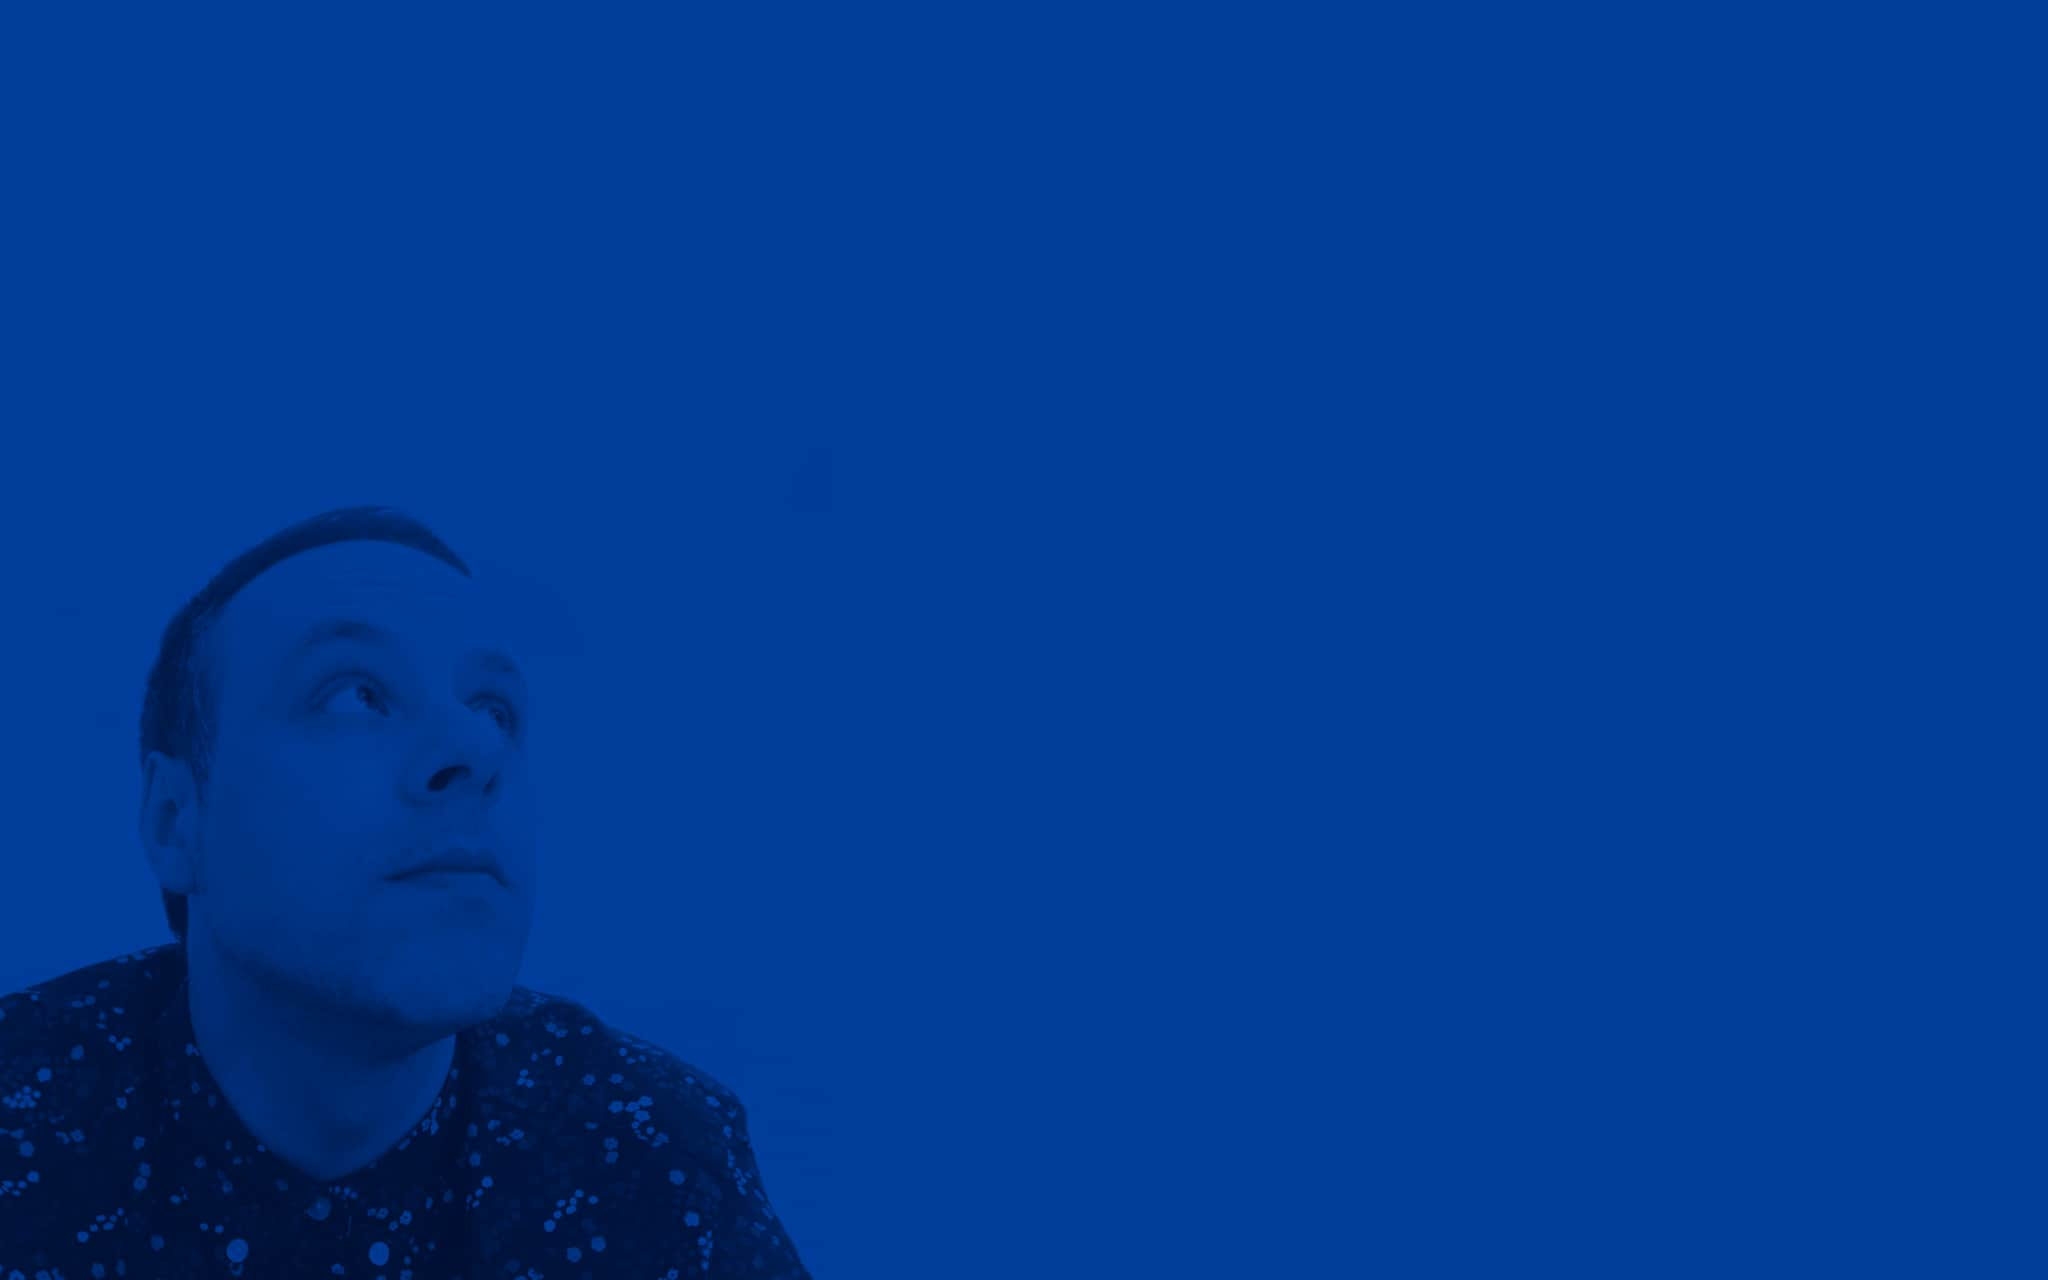
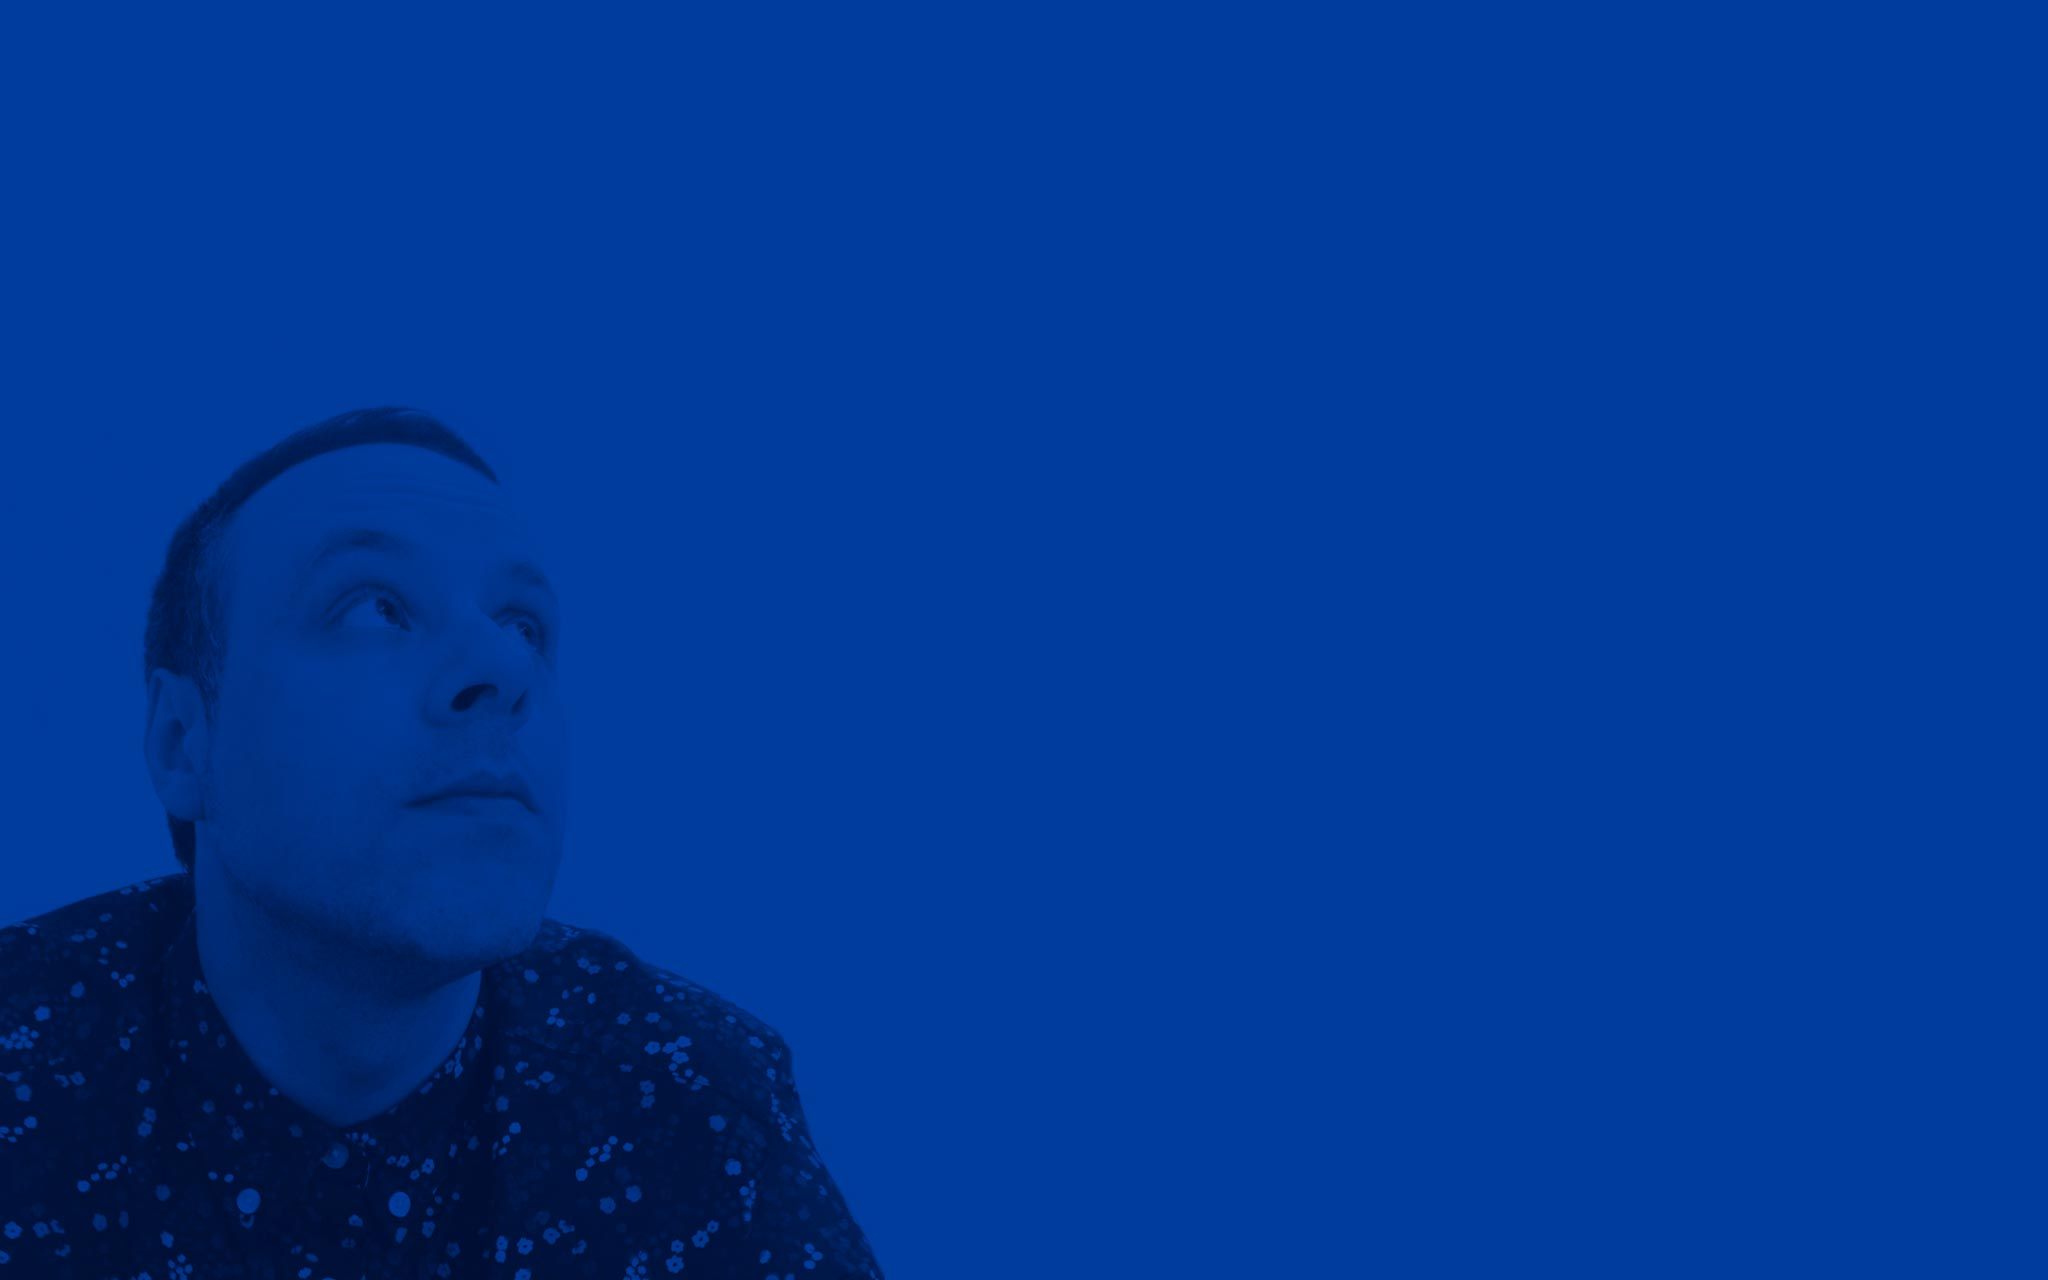
fix rel alternate and added image

Changed region(s): [[0.0, 0.3125, 0.4375, 1.0], [0.1875, 0.5938, 0.2812, 0.625], [0.1875, 0.6562, 0.25, 0.6875]]

diff --git a/public/gl/index.html b/public/gl/index.html
@@ -9,7 +9,7 @@
         <link rel="canonical" href="https://www.segundofdez.com/gl">
         <link rel="alternate" hreflang="x-default" href="/">
         <link rel="alternate" hreflang="en" href="/en">
-        <link rel="alternate" hreflang="gl" href="/gl">
+        <link rel="alternate" hreflang="es" href="/es">
 
         <meta name="description" content="Deseñador gráfico, web e UX">
         <meta name="keywords" content="deseño, gráfico, web, ux, ui, lugo, galicia, españa">

diff --git a/public/en/index.html b/public/en/index.html
@@ -8,7 +8,7 @@
         <link rel="image_src" href="/img/segundo-fdez.jpg">
         <link rel="canonical" href="https://www.segundofdez.com/en">
         <link rel="alternate" hreflang="x-default" href="/">
-        <link rel="alternate" hreflang="en" href="/en">
+        <link rel="alternate" hreflang="es" href="/es">
         <link rel="alternate" hreflang="gl" href="/gl">
 
         <meta name="description" content="Graphic design, web and UX">
